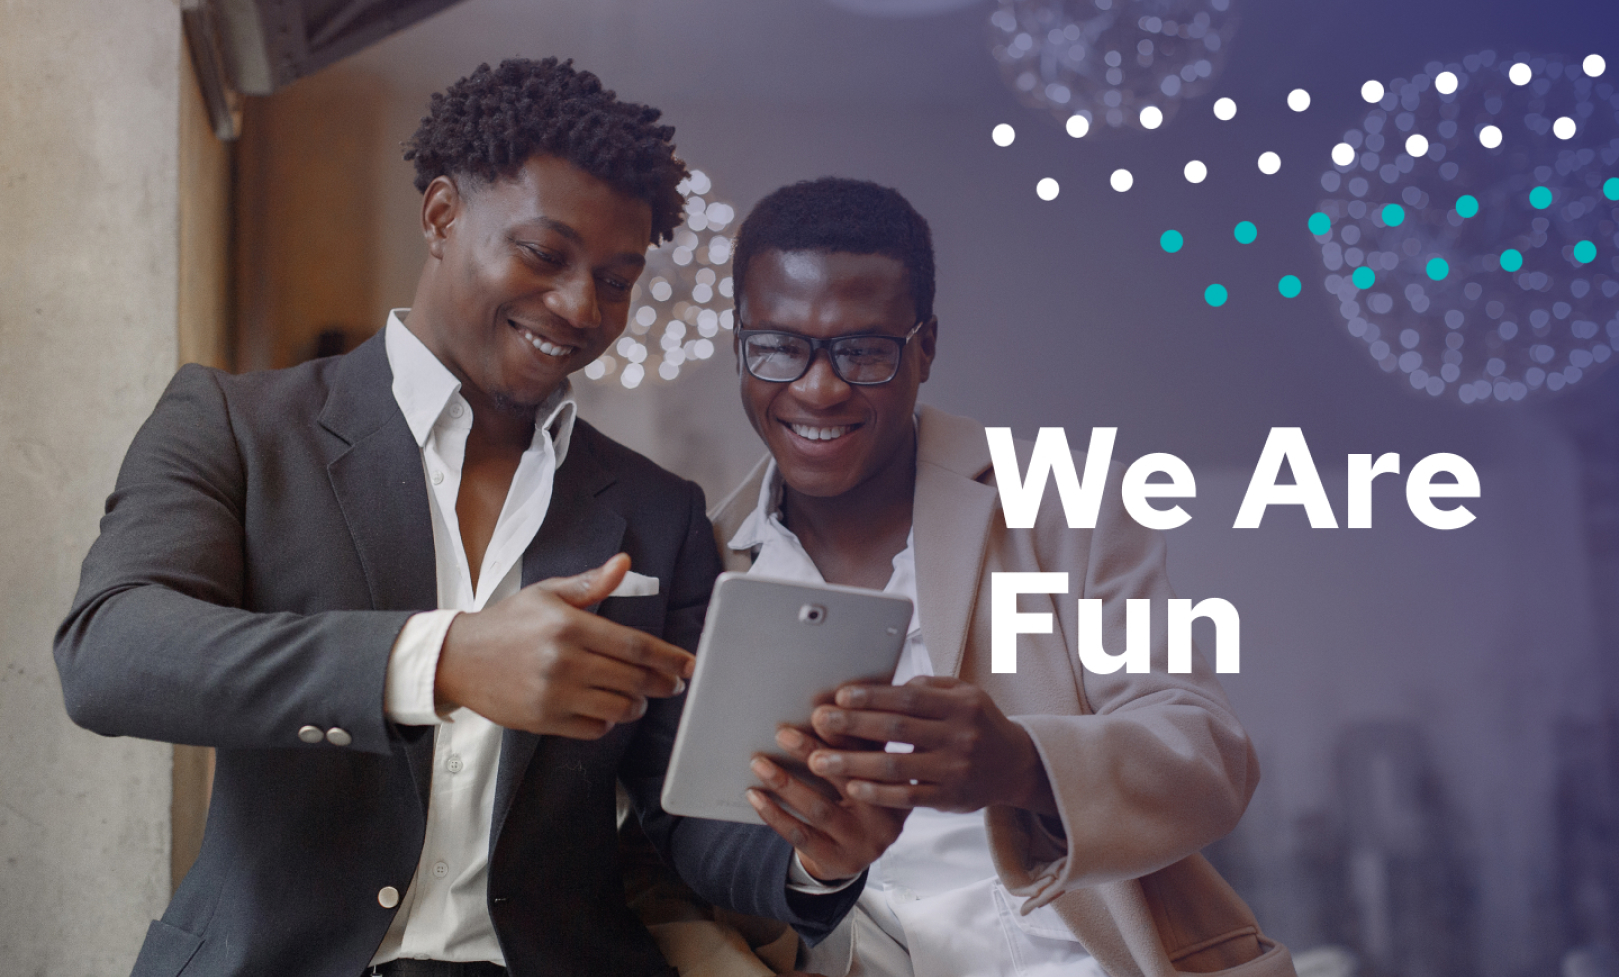
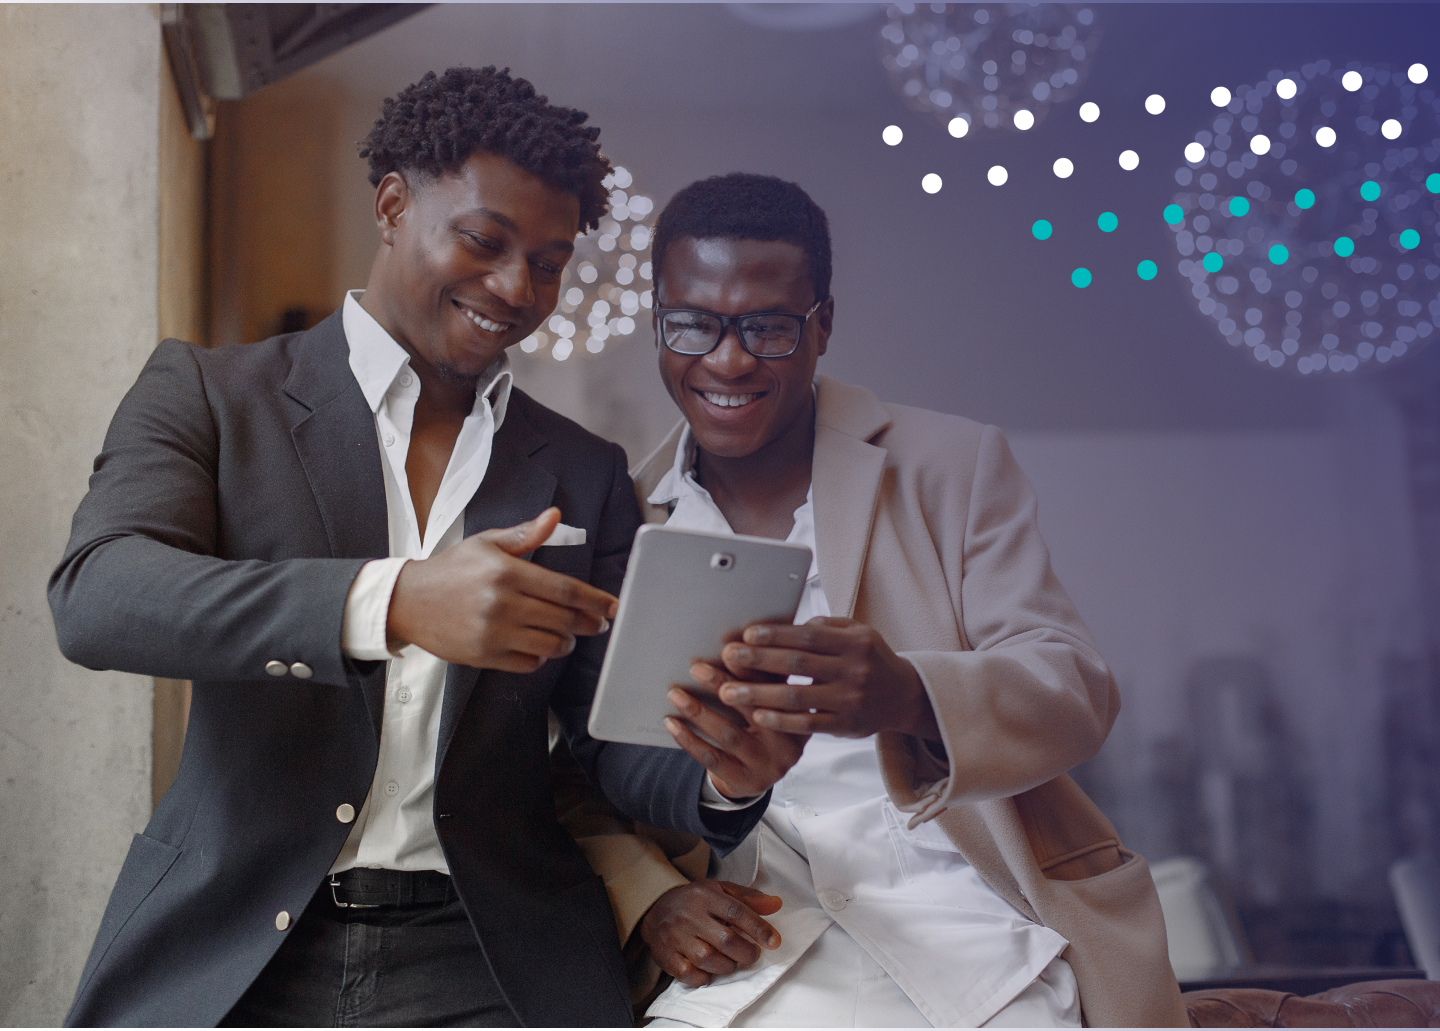
fixed responsiveness on about page

diff --git a/src/components/sections/about/Statistics.js b/src/components/sections/about/Statistics.js
@@ -17,40 +17,43 @@ const dot = {
 const Statistics = () => {
   return (
     <Box>
-        <div style={{display: "flex", justifyContent: "center"}}>
+        
+       <div style={{backgroundImage: `url(${Curves})`, backgroundSize: 'cover', height: '700px'}}>
+       <div style={{display: "flex", justifyContent: "center"}}>
             <Image 
                 src={SpaceMission}
-                style={{width: '500px', marginTop: '100px', position: 'relative', zIndex: '999'}}
+                style={{width: '500px', marginTop: '70px'}}
             />
         </div>
        
-        <Image 
+       </div>
+        {/* <Image 
             src={Curves}
             style={{position: 'relative', zIndex: '-1', marginTop: '-400px'}}
-        />
-        <div className='extra-space' style={{height: '400px', backgroundColor: '#2E2F6E'}}>
+        /> */}
+        <div style={{ paddingBottom: '100px', backgroundColor: '#2E2F6E'}}>
             <Image
               src={CurvedLinesDown}
-              style={{position: 'absolute', right: '0', marginTop: '-600px',}}
+              style={{position: 'absolute', right: '0', marginTop: '-600px', zIndex: '999'}}
             />
-            <div className='container'>
-                <Box style={{backgroundColor: 'white', borderRadius: '30px', width: '100%', padding: '20px', textAlign: 'center', position: 'relative'}}>
+            <div className='container' style={{paddingBottom: '100px'}}>
+                <Box style={{backgroundColor: 'white', borderRadius: '30px', width: '100%', padding: '20px', textAlign: 'center'}}>
                     <Grid container spacing={3}>
                         <Grid item xs={12} md={2.5} sm={2.5}>
                             <h1>9+</h1>
                             <p>Team members</p>
                         </Grid>
-                        <Grid item xs={12} md={0.6} sm={0.6}><span class="dot" style={{backgroundColor: '#00B9BC'}}></span></Grid>
+                        <Grid item xs={12} md={0.6} sm={0.6}><span className="dot" style={{backgroundColor: '#00B9BC'}}></span></Grid>
                         <Grid item xs={12} md={2.5} sm={2.5}>
                             <h1>10+</h1>
                             <p>Client works</p>
                         </Grid>
-                        <Grid item xs={12} md={0.6} sm={0.6}><span class="dot" style={{backgroundColor: '#2E2F6E'}}></span></Grid>
+                        <Grid item xs={12} md={0.6} sm={0.6}><span className="dot" style={{backgroundColor: '#2E2F6E'}}></span></Grid>
                         <Grid item xs={12} md={2.5} sm={2.5}>
                             <h1>4+</h1>
                             <p>Services</p>
                         </Grid>
-                        <Grid item xs={12} md={0.6} sm={0.6}><span class="dot" style={{backgroundColor: '#BD9F62'}}></span></Grid>
+                        <Grid item xs={12} md={0.6} sm={0.6}><span className="dot" style={{backgroundColor: '#BD9F62'}}></span></Grid>
                         <Grid item xs={12} md={2.5} sm={2.5}>
                             <h1>1+</h1>
                             <p>Products</p>

diff --git a/src/App.css b/src/App.css
@@ -577,8 +577,8 @@ h6,
   border-radius: 50%;
   display: inline-block;
   margin: 0;
-  position: absolute;
-  top: 40%;
+  /* top: 40%; */
+  margin-top: 90px;
 }
 
 .border-right {
@@ -595,12 +595,25 @@ h6,
   z-index: 999;
   float: right;
   margin-top: -300px;
-  margin-right: 150px;
+  margin-right: 120px;
+}
+
+.we-are-fun {
+  position: absolute; 
+  right: 0;
+  margin-right: 100px;
+  margin-top: 400px;
+  color: white;
+  font-size: 100px;
+  line-height: 100px;
 }
 
 @media(max-width: 768px) {
   .products-h1 {
     margin-top: 0px!important
+  }
+  .dot {
+    margin-top: 10px;
   }
   .border-right {
     border-right: none;
@@ -610,6 +623,20 @@ h6,
   }
   .about-quote {
     margin-top: -50px;
+    margin-right: 25px;
+  }
+  .we-are-fun {
+    /* position: relative; */
+    margin-left: 100px!important;
+  }
+}
+
+@media only screen and (min-width: 768px) {
+  .dot {
+    margin-top: 80px;
+  }
+  .about-quote {
+    margin-top: -250px;
     margin-right: 25px;
   }
 }

diff --git a/src/components/sections/about/WeAreFun.js b/src/components/sections/about/WeAreFun.js
@@ -1,13 +1,12 @@
 import React from 'react'
-import Image from '../../elements/Image'
 import WeFun from '../../../assets/images/section/AboutPage/we-are-fun.jpg'
 
 const WeAreFun = () => {
   return (
-    <div>
-        <Image 
-            src={WeFun}
-        />
+    <div style={{marginTop: '-60px'}}>
+        <div style={{backgroundImage: `url(${WeFun})`, backgroundSize: 'cover', height: '1000px'}}>
+            <h1 className='we-are-fun'>We Are <br/>Fun</h1>
+        </div>
     </div>
   )
 }

diff --git a/src/components/layout/Footer.js b/src/components/layout/Footer.js
@@ -95,7 +95,7 @@ const Footer = ({
               </Grid>
             </Box>
             <br/><br/>
-              <div className="footer-copyright" style={{color: "#9CA9B3", textAlign: 'center'}}>&copy; 2022 Kiwii Labs. All right reserved</div>
+              <div className="footer-copyright" style={{color: "#9CA9B3", textAlign: 'center'}}>&copy; 2022 Hashtag Digital Services. All right reserved</div>
           </div>
         </div>
       </div>

diff --git a/src/components/sections/about/MissionVisionValues.js b/src/components/sections/about/MissionVisionValues.js
@@ -7,7 +7,7 @@ import { Box, Grid } from '@mui/material'
 
 const MissionVisionValues = () => {
   return (
-    <Box>
+    <Box style={{position: 'relative', zIndex: '999'}}>
       <div className='container'>
         <Grid container spacing={3}>
           <Grid item xs={12} md={3.5} sm={3.5} className='border-right'>
